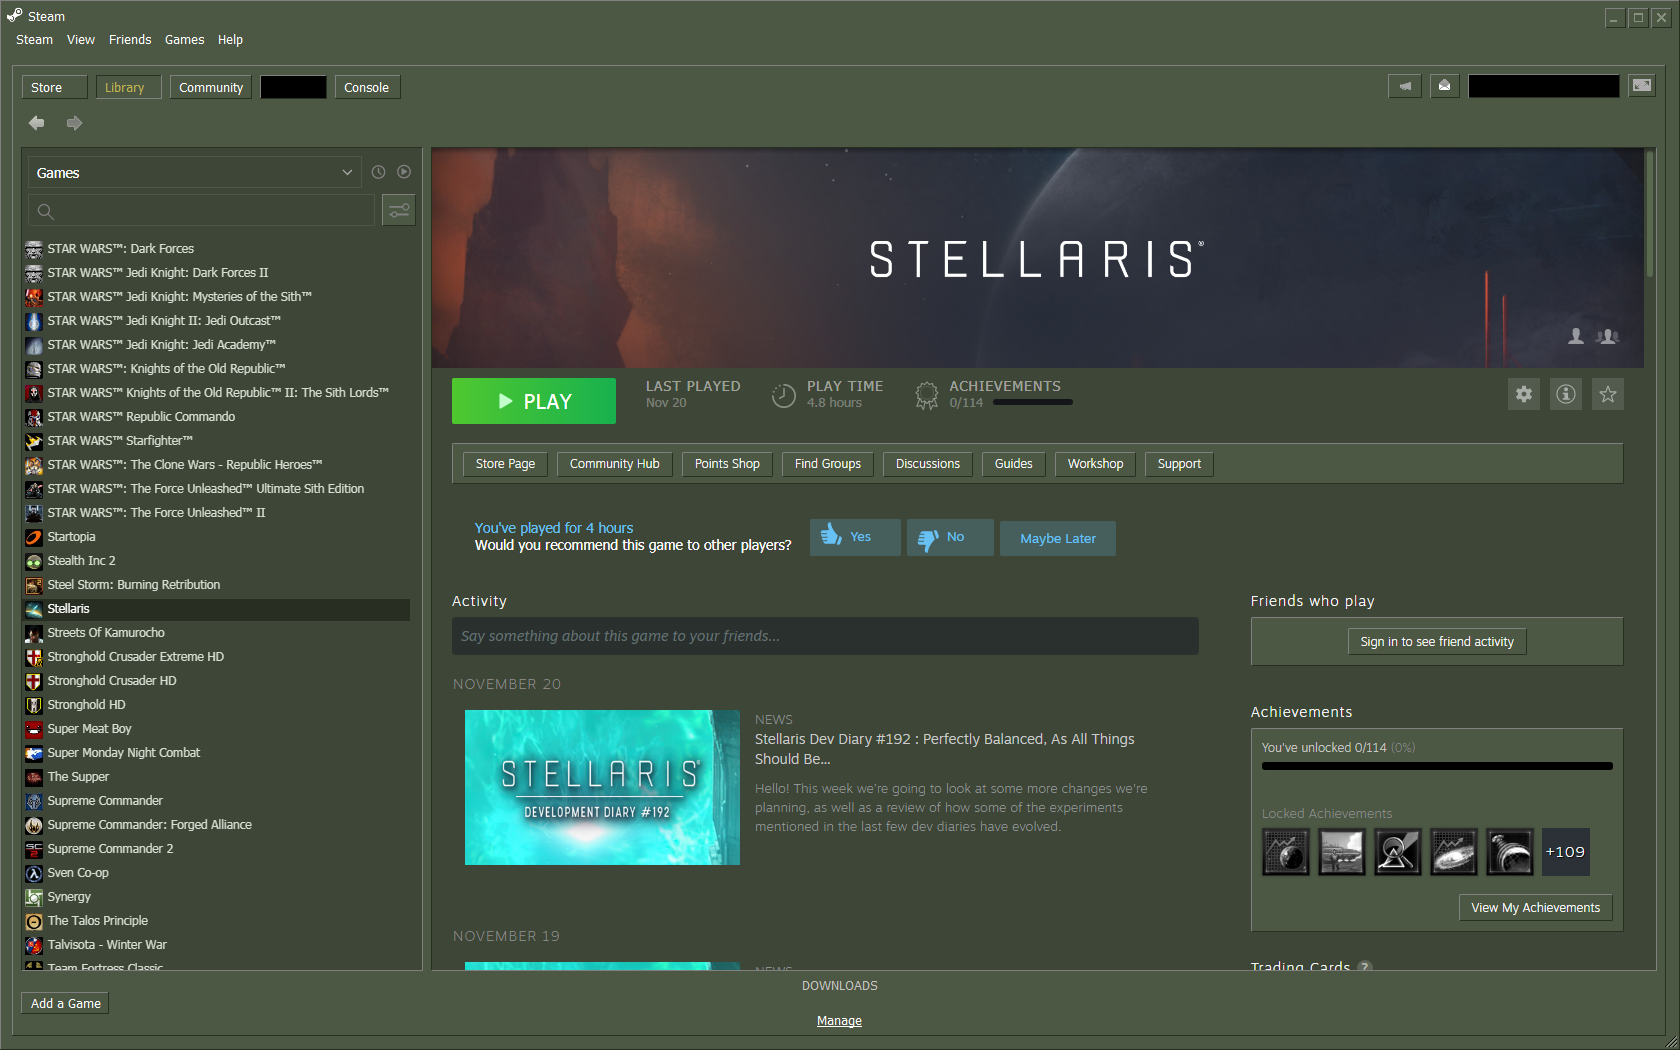
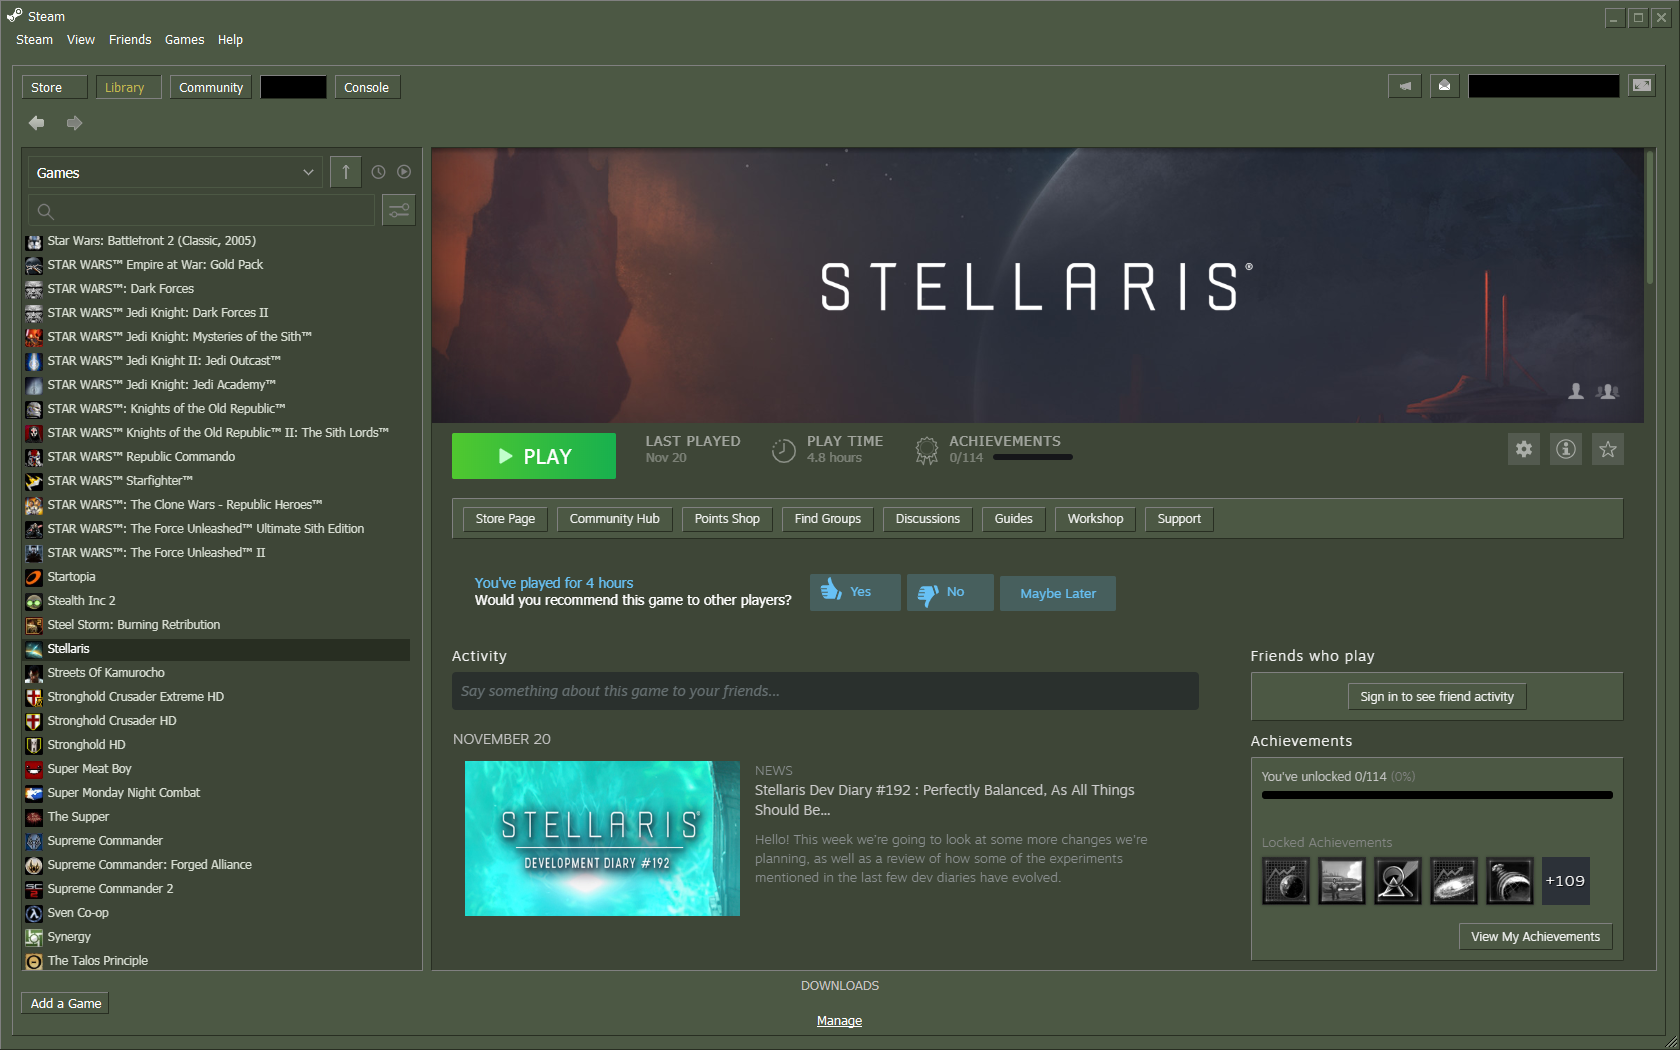
Height adjustment
- Adjusted height of game page background image

diff --git a/Copy contents to steamui folder/libraryroot.custom.css b/Copy contents to steamui folder/libraryroot.custom.css
@@ -16,6 +16,7 @@ body {
     font-family: "Tahoma";
 	font-size: 12px;
 	font-weight: 100;
+	background-color: #3e4637;
 }
 
 .collapseicon_Container_3SFRZ {
@@ -251,9 +252,23 @@ button.DialogButton:hover {
     background-size: 330% 100%; }
 
 .appdetailsoverview_Glassy_2OOzY .appdetailsoverview_BackdropGlass_Jbe-- {
-	background: #3e4637; }
+    box-sizing: border-box;
+    display: block;
+    height: 450px;
+    width: 100%;
+    backdrop-filter: blur(8px);
+    background: #3e4637;
+    z-index: 0;
+}
 div.LowPerfMode .appdetailsoverview_Glassy_2OOzY .appdetailsoverview_BackdropGlass_Jbe-- {
-    background: #3e4637; }
+    box-sizing: border-box;
+    display: block;
+    height: 450px;
+    width: 100%;
+    backdrop-filter: blur(8px);
+    background: #3e4637;
+    z-index: 0;
+}
 
 .appdetailsplaysection_Glassy_3DeO9.appdetailsplaysection_PlayBar_3fLo1 {
     background: transparent; }
@@ -1275,7 +1290,7 @@ button.DialogButton:enabled:active:hover {
 
 .sharedappdetailsheader_TopCapsule_NZMJ6.sharedappdetailsheader_TopCapsule_NZMJ6 {
     overflow: visible;
-    max-height: 250px;
+    max-height: 275px;
     display: flex;
     justify-content: center;
 }
